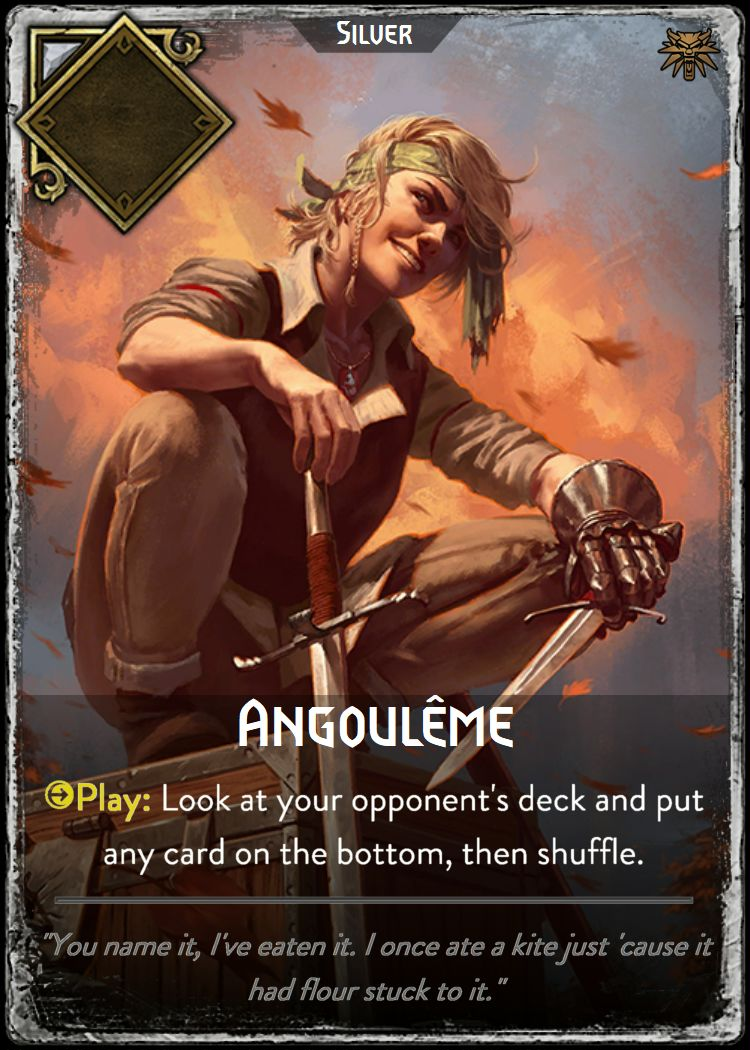
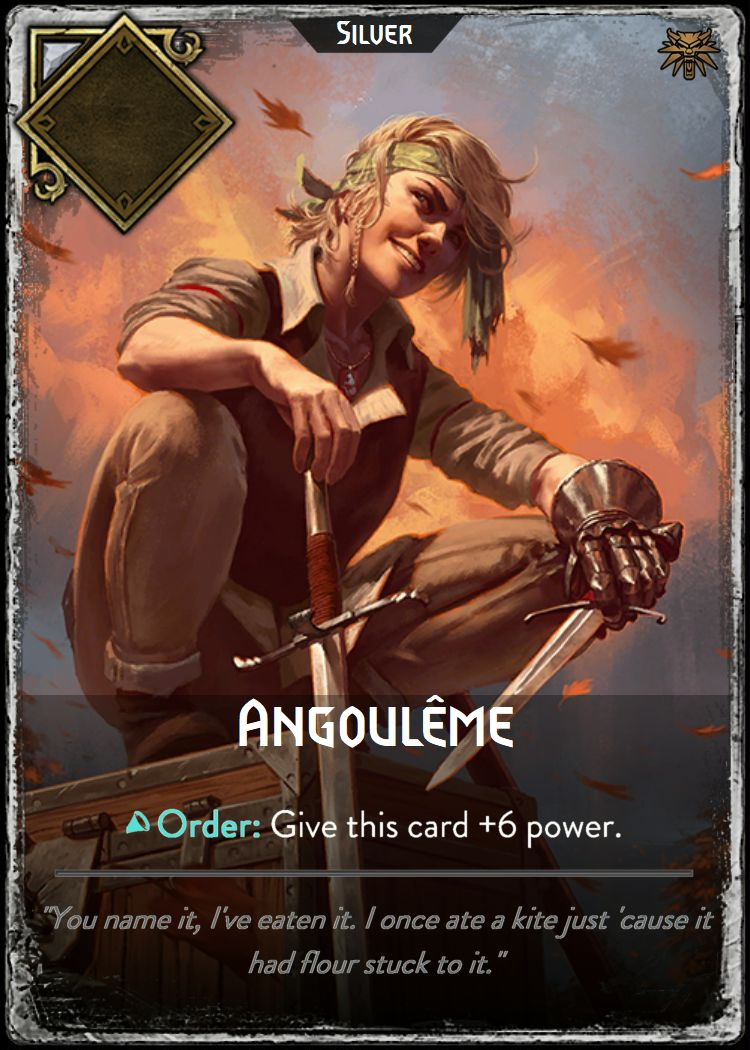
Rework Falibor, Dandelion, Angouleme and Roach; add Roach's discard-return passive
- Falibor: power unchanged; ability replaced with "Order: Deal 2 damage"
  (targeted Order-damage ability, matching Bomb Heaver's pattern).
- Dandelion: base power raised to 3; both existing abilities (Play: look at
  deck and put a card on top; Order: give a card +3 power) left untouched.
- Angoulême: reworked to 2 power / Silver / "Order: Give this card +6
  power" (a self-buff Order, same pattern Roach used to use), replacing her
  old power/tier/deck-bottom-choice entirely.
- Roach: reworked to 2 power / Silver / a new passive -- "Whenever you play
  a Gold card, this card gets played from your discard pile onto the board
  automatically." Implemented via a new `passiveReturnOnGoldPlay` ability
  trigger, checked by a new triggerDiscardReturnPassives() helper called
  from notifyAllyPlay() -- the single sequencing point every play path
  (hand, AI, free-from-discard) already funnels through immediately after
  a played card's own effects/abilities have fully resolved. The actual
  return-to-play reuses playFreeCardWithAnimation() so Roach gets the same
  discard-pile-to-board flight animation as any other free play. Not
  single-use: a Roach that dies again can be brought back by a later Gold
  play.
- New card art for all four (angouleme.jpg, dandelion.jpg, falibor.jpg,
  roach.jpg) already dropped in place under cards/; CARD_DB's img paths
  are unchanged since the filenames stayed the same.
- Updated a few stale illustrative comments that used to cite Roach as the
[…]

Changed region(s): [[0.0613, 0.7314, 0.9507, 0.9752], [0.3987, 0.0, 0.6133, 0.061], [0.8893, 0.0305, 0.9507, 0.0914]]

diff --git a/game.html b/game.html
@@ -1752,7 +1752,7 @@ const CARD_DB = {
   tridam_infantry:   { id: 'tridam_infantry', name: 'Tridam Infantry', power: 2, tier: 'bronze', img: 'cards/tridam_infantry.jpg',
                        abilities: [ { trigger: 'onAllyPlay', effect: buffTridamInfantry } ] },
 
-  dandelion:         { id: 'dandelion', name: 'Dandelion', power: 2, tier: 'silver', img: 'cards/dandelion.jpg',
+  dandelion:         { id: 'dandelion', name: 'Dandelion', power: 3, tier: 'silver', img: 'cards/dandelion.jpg',
                        deckTopChoice: true,
                        abilities: [
                          { trigger: 'order', needsTarget: true, effect: (ctx, target) => applyPowerDelta(target, 3) },
@@ -1764,16 +1764,26 @@ const CARD_DB = {
                        abilities: [ { trigger: 'order', needsTarget: true, effect: (ctx, target) => applyPowerDelta(target, 2) } ] },
   caretaker:         { id: 'caretaker', name: 'Caretaker', power: 2, tier: 'silver', img: 'cards/caretaker.jpg', abilities: [],
                        discardChoice: 'bronze' },
-  roach:             { id: 'roach', name: 'Roach', power: 3, tier: 'silver', img: 'cards/roach.jpg',
-                       abilities: [ { trigger: 'order', needsTarget: false, effect: (ctx) => applyPowerDelta(ctx.card, 5) } ] },
+  roach:             { id: 'roach', name: 'Roach', power: 2, tier: 'silver', img: 'cards/roach.jpg',
+                       // Passive: whenever this card's owner plays a Gold card
+                       // (from anywhere -- hand or a free/discard play alike),
+                       // Roach automatically returns from THEIR discard pile
+                       // onto their board, with the normal play-animation. See
+                       // triggerDiscardReturnPassives(), called at the same
+                       // point as onAllyPlay -- i.e. strictly after the
+                       // triggering Gold card's own play effects/abilities
+                       // have fully resolved. Not single-use: if Roach is
+                       // killed again later, a further Gold play can bring it
+                       // back again.
+                       abilities: [ { trigger: 'passiveReturnOnGoldPlay' } ] },
   scorch:            { id: 'scorch', name: 'Scorch', power: 0, tier: 'silver', img: 'cards/scorch.jpg', special: true,
                        abilities: [ { trigger: 'onPlay', effect: resolveScorch } ] },
 
-  angouleme:         { id: 'angouleme', name: 'Angoulême', power: 4, tier: 'silver', img: 'cards/angouleme.jpg', abilities: [],
-                       deckBottomChoice: 'opponent' },
+  angouleme:         { id: 'angouleme', name: 'Angoulême', power: 2, tier: 'silver', img: 'cards/angouleme.jpg',
+                       abilities: [ { trigger: 'order', needsTarget: false, effect: (ctx) => applyPowerDelta(ctx.card, 6) } ] },
   renfri:            { id: 'renfri', name: 'Renfri', power: 3, tier: 'silver', img: 'cards/renfri.jpg', abilities: [], playTargetDamage: 3 },
   falibor:           { id: 'falibor', name: 'Falibor', power: 4, tier: 'silver', img: 'cards/falibor.jpg',
-                       abilities: [ { trigger: 'order', needsTarget: true, isDamage: true, effect: (ctx, target) => applyDamage(target, 3) } ] },
+                       abilities: [ { trigger: 'order', needsTarget: true, isDamage: true, effect: (ctx, target) => applyDamage(target, 2) } ] },
 
   villentretenmerth: { id: 'villentretenmerth', name: 'Villentretenmerth', power: 3, tier: 'gold', img: 'cards/villentretenmerth.jpg',
                        abilities: [ { trigger: 'onPlay', effect: resolveVillentretenmerth } ] },
@@ -2918,13 +2928,44 @@ function flyExistingElement(el, toRect, durationMs, onDone) {
 /* Lets other cards already on the same board react to a card being played
    -- e.g. Tridam Infantry buffing itself the first time its owner plays a
    card each turn. The just-played card itself never triggers off its own
-   play (it "doesn't count itself"). */
+   play (it "doesn't count itself"). Also the single sequencing point for
+   "return from discard" passives (see triggerDiscardReturnPassives) --
+   every code path that plays a card, however it does so, funnels through
+   here immediately after that card's own play effects/abilities have
+   fully resolved, which is exactly when a passive like Roach's needs to
+   check in. */
 function notifyAllyPlay(side, playedCard, isFirstPlayThisTurn) {
   state.players[side].board.forEach(boardCard => {
     if (boardCard.uid === playedCard.uid || !boardCard.abilities) return;
     boardCard.abilities
       .filter(a => a.trigger === 'onAllyPlay')
       .forEach(a => a.effect(boardCard, { side, playedCard, isFirstPlayThisTurn, state }));
+  });
+  triggerDiscardReturnPassives(side, playedCard);
+}
+
+/* "Passive: whenever you play a Gold card, this card gets played from your
+   discard pile onto the board automatically" (Roach). Generic per-side --
+   works the same for either player, and isn't single-use: a card brought
+   back this way can die again and come back again on a later Gold play.
+   Fires from notifyAllyPlay, i.e. strictly after the triggering Gold
+   card's own play effects have fully resolved; the actual return-to-play
+   reuses playFreeCardWithAnimation so it gets the same discard-pile-to-
+   board flight animation as any other free play from the discard pile.
+   Not awaited by its caller -- the animation runs in the background the
+   same way other post-play flourishes (buffs, etc.) do, without blocking
+   the rest of the turn flow. */
+function triggerDiscardReturnPassives(side, playedCard) {
+  if (!playedCard || playedCard.tier !== 'gold') return;
+  const p = state.players[side];
+  const candidates = p.graveyard.filter(c =>
+    c.abilities && c.abilities.some(a => a.trigger === 'passiveReturnOnGoldPlay'));
+  candidates.forEach(c => {
+    // Re-check it's still actually in the graveyard before each one --
+    // an earlier candidate's return-to-play in this same batch could in
+    // principle have already moved things around.
+    if (!p.graveyard.some(gc => gc.uid === c.uid)) return;
+    playFreeCardWithAnimation(side, c.uid);
   });
 }
 
@@ -3322,7 +3363,7 @@ async function aiUseAvailableOrders() {
       // buffs a chosen ally (e.g. Zoltan Chivay) -- pick the strongest one
       target = ai.board.slice().sort((a, b) => b.power - a.power)[0] || readyCard;
     } else {
-      // self-only Order (e.g. Roach buffing itself) -- never aim it at some
+      // self-only Order (e.g. Angoulême buffing herself) -- never aim it at some
       // other card, or applyOrderAbility will fire a buff projectile at a
       // card the effect isn't actually touching
       target = readyCard;
@@ -4465,7 +4506,7 @@ function applyOrderAbility(side, card, ability, target, onDone) {
       finish();
     }, 'buff');
   } else if (!ability.isDamage) {
-    // a self-buff (e.g. Roach) -- no projectile needed, just the sound
+    // a self-buff (e.g. Angoulême) -- no projectile needed, just the sound
     ability.effect(makeCtx(side, card), target);
     SFX.buff();
     finish();
@@ -4618,7 +4659,7 @@ function applyMultiTargetEffect(session, targetUids) {
 }
 
 // Activates a ready Order ability: if it needs a target, starts the
-// pointer-targeting flow; if not (e.g. Roach buffing only itself), resolves
+// pointer-targeting flow; if not (e.g. Angoulême buffing only herself), resolves
 // immediately against the source card itself.
 function activateOrderAbility(side, card) {
   if (activeTargeting) return;
